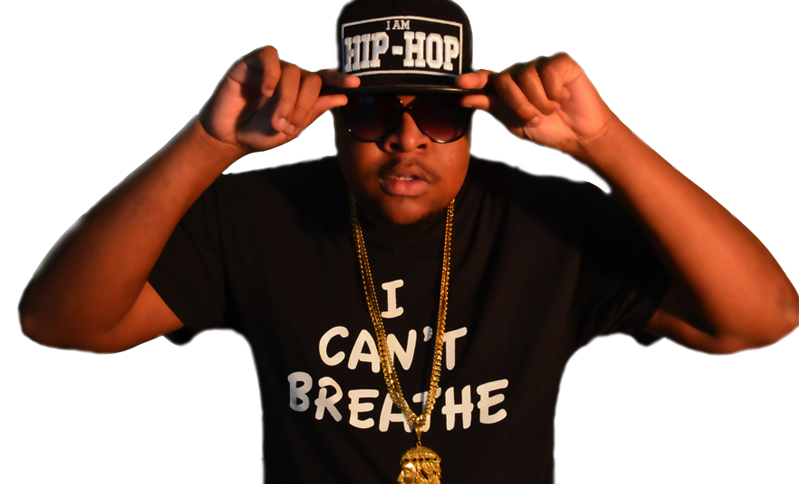
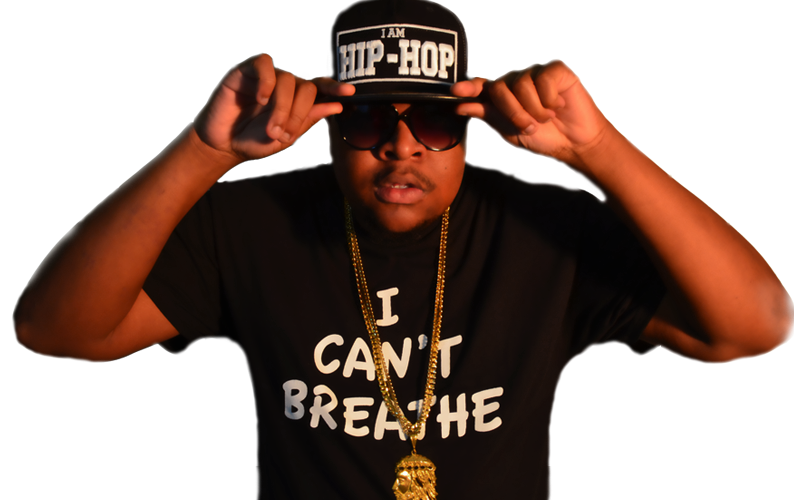
tweaked main image position

diff --git a/css/style.css b/css/style.css
@@ -60,6 +60,6 @@ body{
     .header_img img {
         position:relative;
         left:100px;
-        top:20px;
+
     }
 }
